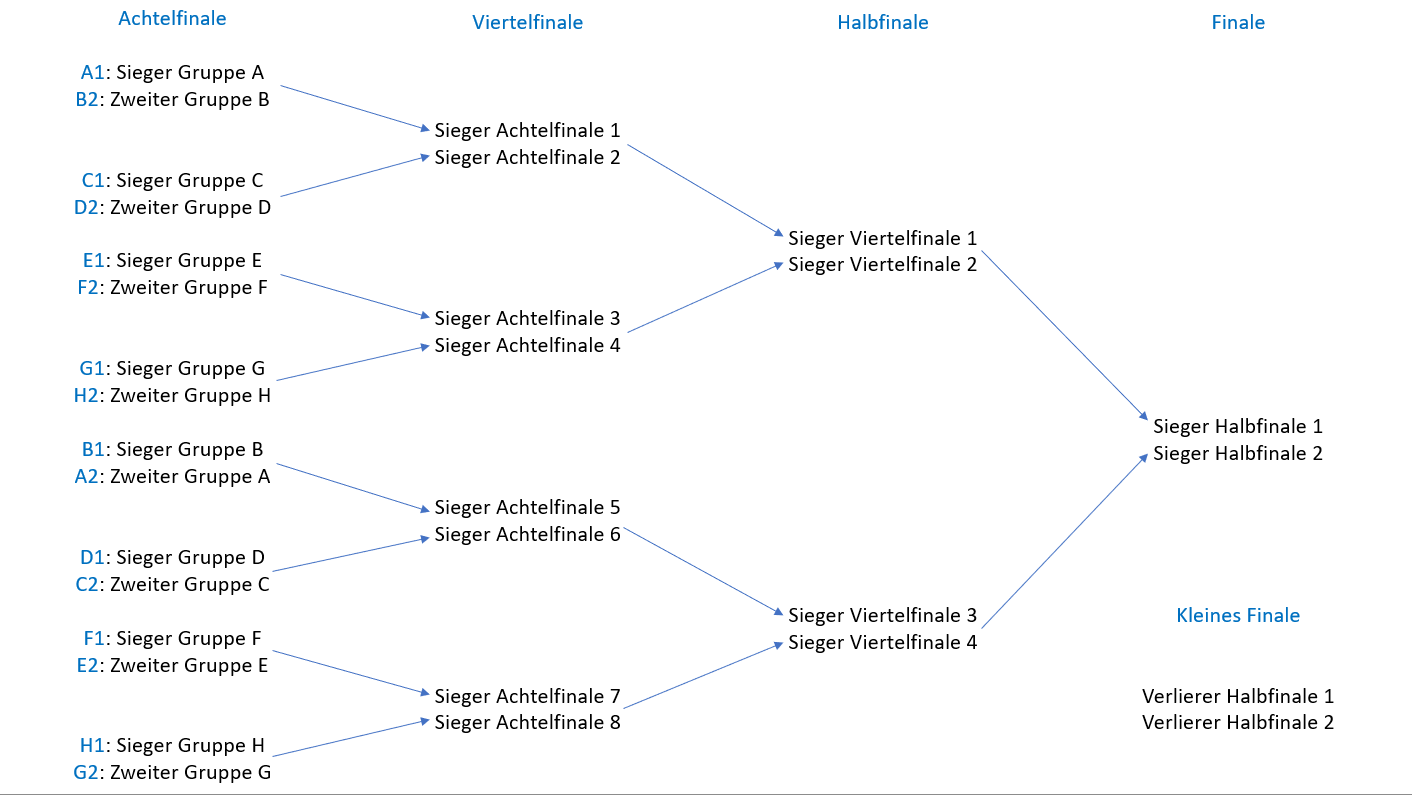
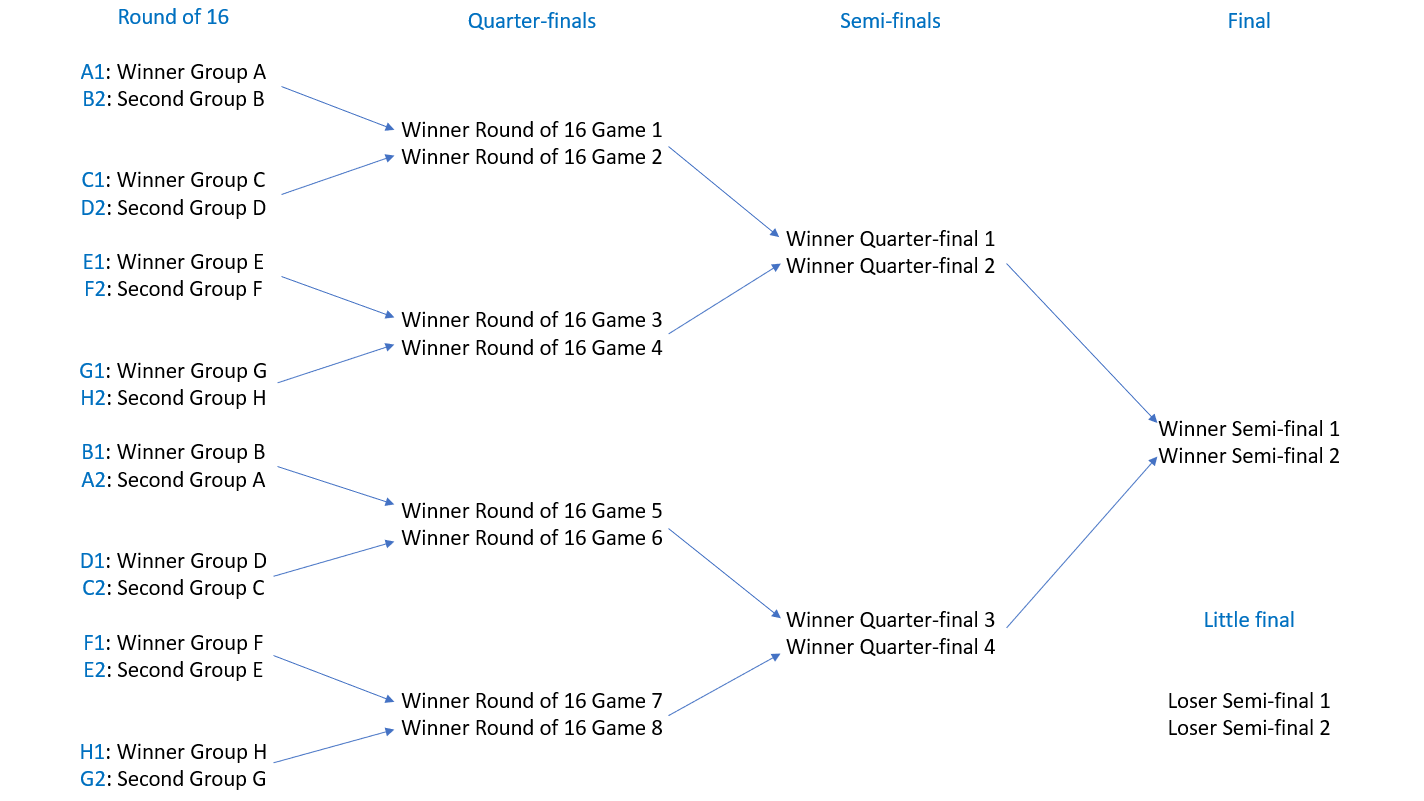
text fertig

diff --git a/Html/David Pröller/Procedure of the world cup system.html b/Html/David Pröller/Procedure of the world cup system.html
@@ -1,0 +1,62 @@
+<!DOCTYPE html>
+<html>
+    <head>
+        <meta name="David Pröller" content="Procedure of the world cup">
+        <title>Procedure of the world cup system</title>
+        <link href="https://cdn.jsdelivr.net/npm/bootstrap@5.0.2/dist/css/bootstrap.min.css" rel="stylesheet" integrity="sha384-EVSTQN3/azprG1Anm3QDgpJLIm9Nao0Yz1ztcQTwFspd3yD65VohhpuuCOmLASjC" crossorigin="anonymous"> <!--Bootstrap verknüpfen-->
+        <script src="https://cdn.jsdelivr.net/npm/bootstrap@5.0.2/dist/js/bootstrap.bundle.min.js" integrity="sha384-MrcW6ZMFYlzcLA8Nl+NtUVF0sA7MsXsP1UyJoMp4YLEuNSfAP+JcXn/tWtIaxVXM" crossorigin="anonymous"></script>
+        <link rel="stylesheet" href="Procedure of the world cup.css">
+    </head>
+    <div class="all">
+        <body>
+        <div class="body">
+        <h1>Procedure of the world cup</h1><br>
+        <p>In the world cup there are 32 countries that all have to go through a qualifying system in order to play in the world cup.</p>
+        <P>There are 8 groups with 4 countries each and the first 2 qualify for the knockout stage.</P><br><br>
+        <h2>Group stage</h2><br>
+        <p>Everyone plays once against everyone in the group stage and the 2 countries with the most points go through.</p>
+        <p>A match is 90 minutes long and the team who scored the most goals after 90 minutes gets 3 points for the win.</p>
+        <p>The country who did not score the most goals lost the game and gets 0 points.</p>
+        <p>If 2 countires score the same amount of goals they both get 1 point for a draw.</p>
+        <div class="PointSystem">
+        <table id="pointsystem" class="table table-bordered">
+            <tr>
+                <th colspan="2">Point system</th>
+            </tr>
+            <tr>
+                <td>Win</td>
+                <td>3 points</td>
+            </tr>
+            <tr>
+                <td>Draw</td>
+                <td>1 points</td>
+            </tr>
+            <tr>
+                <td>Lose</td>
+                <td>0 points</td>
+            </tr>
+        </table>
+        </div>
+        <p>If 2 countries have the same amount of points then the winner of the direct duel goes through.</p>
+        <p>If they also drawn against each other the team with the most goals goes trough.</p><br><br>
+        <a class="Turnierbaum" href="Turnierbaum.png"><img src="Turnierbaum.png" alt="Gameplan" width="691.2" height="388.8"/></a>
+        <h2>Knockout stage</h2><br>
+        <p>When a country comes first in the group they will play against a second place from another group.</p>
+        <p>A first place can not play against another first place and a second place can not play against another first place.</p>
+        <p>The system also doesnt allow two teams from the same group to play against eachother a second time before the final.</p>
+        <p>The system is not the same system as in the group stage. There is no system with points. The winner just gets through.</p>
+        <p>The country with the most goals after 90 minutes goes instant through into the next round and the country who lost can go home.</p>
+        <p>If 2 countries have the same amount of goals after 90 minutes there is no draw like in the knockout stage.</p>
+        <p>They have to play it out in extra time and if they have the same amount of goals after extra time they have to go to penaltys.</p>
+        <p>Every country that lost in the knockout stage has to fly home.</p>
+        <p>If you lose in the semi-final you have one game left. The game about the third place also called little final.</p><br><br>
+        <a class="WorldCupTrophy" href="worldcuptrophy.jpg"><img src="worldcuptrophy.jpg" alt="WorldCup Trophy" width="436,3636" height="245,4545"/></a>
+        <h2>Final</h2><br>
+        <p>Then there is the big final where the two winner of the two semi-finals play against each other.</p>
+        <p>The winner of the world cup final gets 38 million dollar and the second place gets 28 million dollar.</p>
+        <p>After the final not only the winner gets the world cup trophy, also the player with the most goals </p>
+        <p>in the tournament gets a trophy, the best goalkeeper and the best player of the tournament gets a trophy.</p>
+        </div>
+    </body>
+    </div>
+</html>

diff --git a/Html/David Pröller/Procedure of the world cup system.css b/Html/David Pröller/Procedure of the world cup system.css
@@ -1,0 +1,31 @@
+.all{
+    background-color:white;
+    color: black;
+}
+.body{
+    margin-left: 1cm;
+}
+.PointSystem{
+    border-color: black;
+    float: right;
+    margin-right: 16cm;
+    margin-top: -3cm;
+    text-align: center;
+    width: 5cm;
+    height: 5cm;
+}
+.Turnierbaum{
+    border: 1px solid black;
+    margin-left: 27cm;
+    margin-top: 0.5cm;
+    position:absolute;
+}
+.WorldCupTrophy{
+    border: 1px solid black;
+    margin-left: 27cm;
+    margin-top: -0.5cm;
+    position:absolute;
+}
+#pointsystem{
+    border-color: black;
+}
